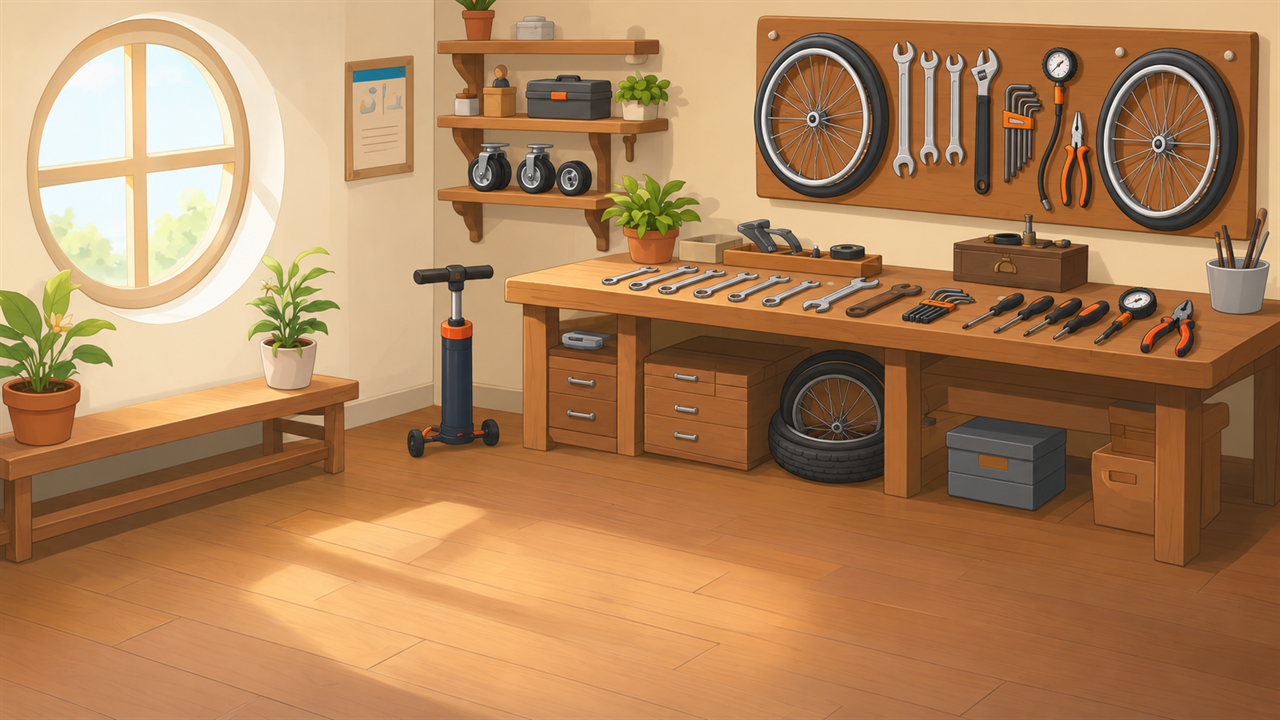
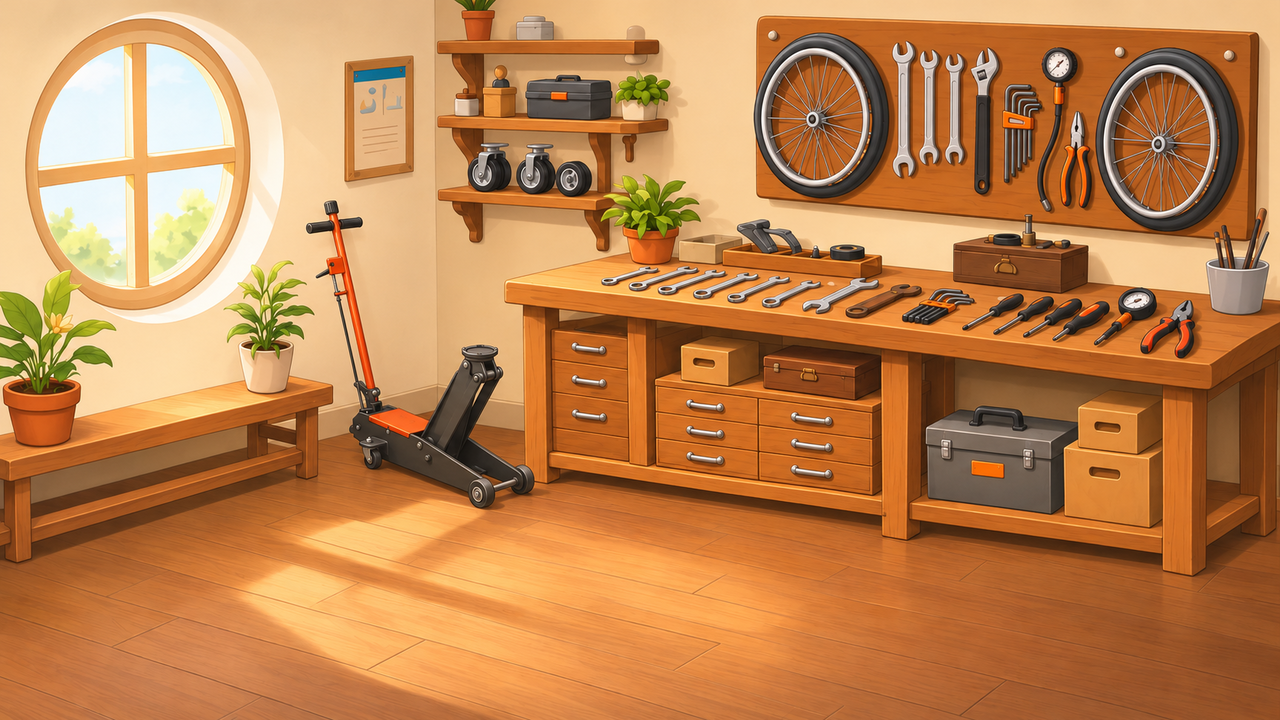
Фон мастерской: без шин под верстаком, домкрат вместо насоса (Codex, полная перерисовка)

diff --git a/AGENTS.md b/AGENTS.md
@@ -529,6 +529,14 @@ python i18n_work/build_lang.py       # перевод полон
 ## Журнал изменений
 Формат: `ГГГГ-ММ-ДД — агент/модель — что сделано (файлы)`. Новые записи — **сверху**.
 
+
+- 2026-11-10 — Claude (Fable 5.2), ветка `feature/bg-workshop` (в main НЕТ; только тестовая сборка) — **новый фон мастерской**
+  `assets/bg_workshop.png` (просьба владельца): под верстаком больше нет двух шин (походили на автомобильные), в углу вместо
+  напольного насоса — подкатной домкрат по фото владельца. Рисовал Codex (`gpt-6-luna`), рабочая папка
+  `art_tests/codex_bg/tires_1110/` (BRIEF_FULL.md, варианты v1/v2). Урок: частичная правка по маске даёт швы и несовпадение
+  стены за верстаком (владелец отверг два варианта) — фон отдавать на ПОЛНУЮ перерисовку с жёстким списком «что остаётся на
+  месте» (круглое окно — центр ~(138, 163), радиус ~110: по нему игра рисует луч и пылинки; верстак, щит с колёсами, пустой
+  пол). Проверено в игре: титул, мастерская, задание — луч из окна совпадает, размер 1280×720 RGB.
 - 2026-11-03 — Claude (Fable 5.1) — **аудит 6 после анимаций героев** (просьба владельца). Чек-лист §10а на 2e2c74a + агент
   по коду петель + снимки титула/мастерской/пузыря/финала: падений нет, заглушек нет, сайт (Pages, `?v=e83ce0b4ab`,
   «about 14 MB», GoatCounter с allow_frame) и exe в Release v0.4 (128,5 МБ) совпадают с репозиторием. Исправлено:
